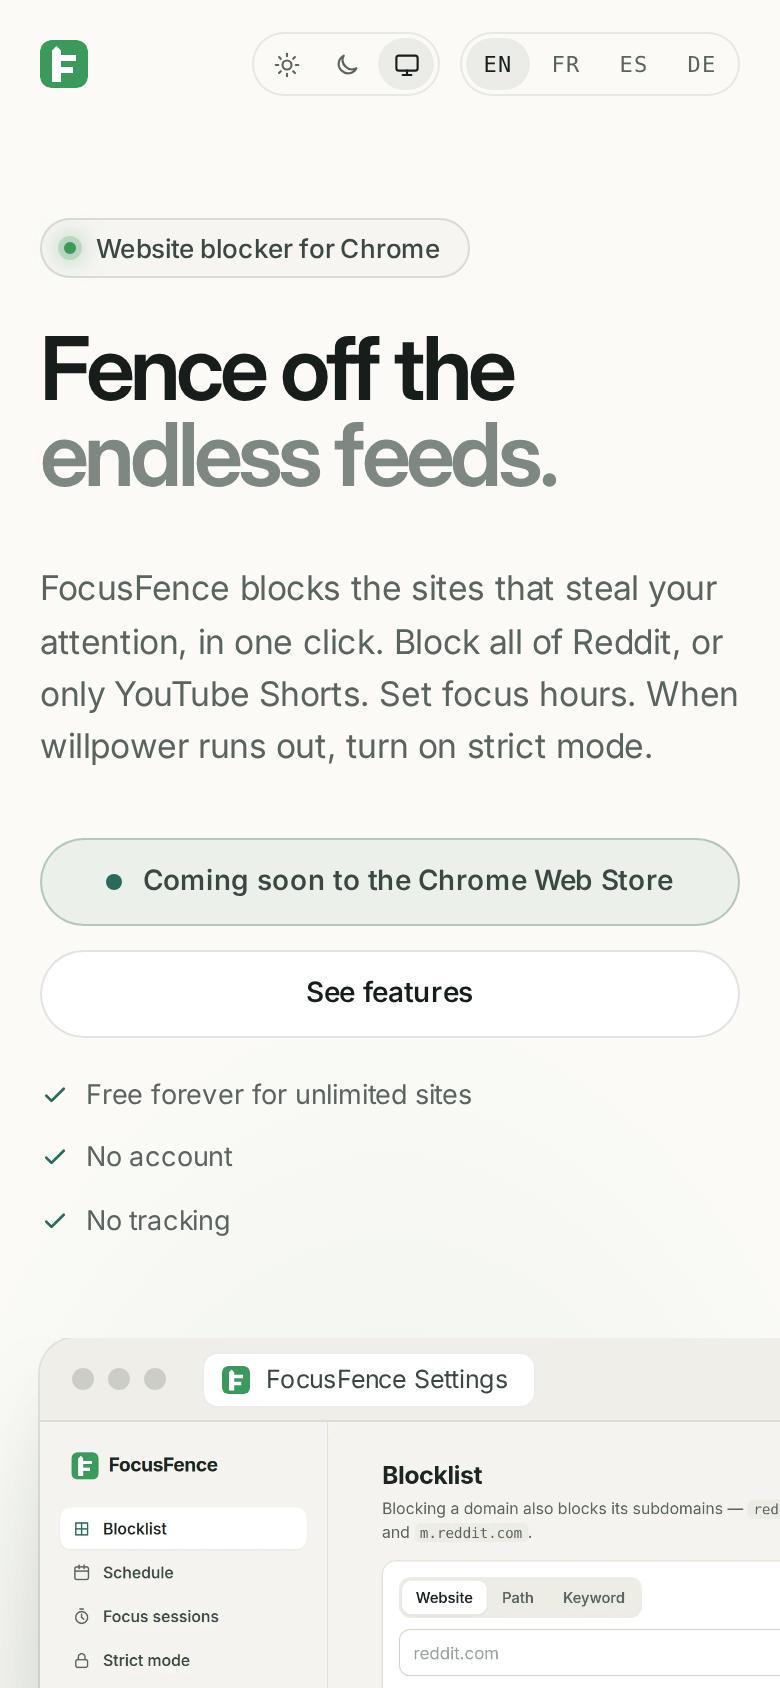
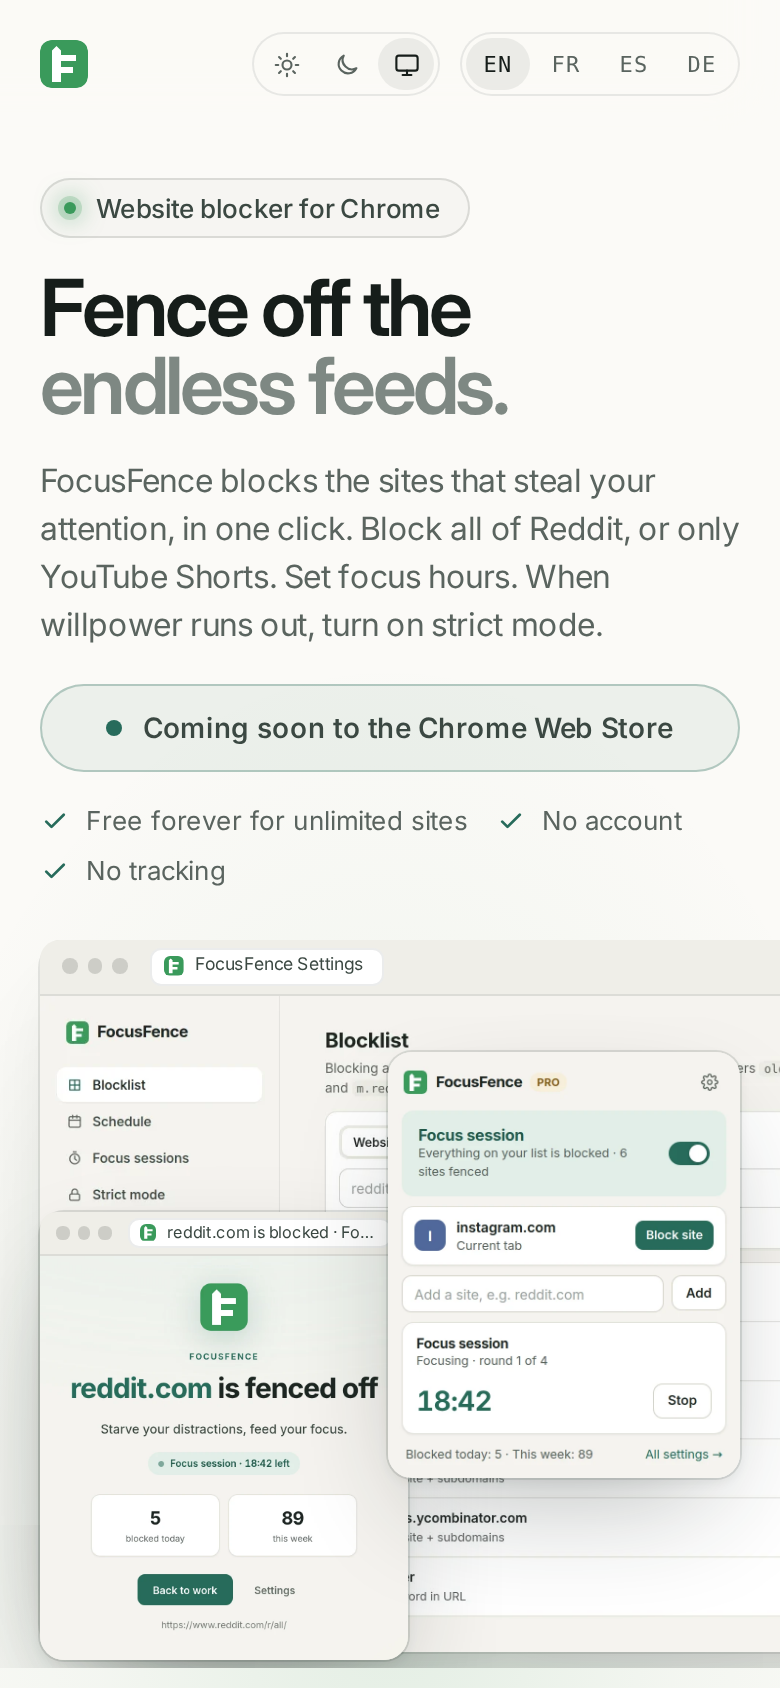
docs(design): round 3 brief, critique log and screenshots
- BRIEF.md: type scale, layout and page plan for the new hero; phone
  captures; the "One year of Pro" comparison; critique passes 10-12;
  Lighthouse re-measured, with an A/B against the round 2 build.
- Screenshots re-shot from the final build: full pages at 1440 and
  390px for every language in both themes, and the English first
  screens at 2x.
- README: phones get captures made for them through <picture>.

Changed region(s): [[0.0308, 0.0924, 1.0, 1.0], [0.8, 0.6161, 0.9846, 0.7701], [0.9231, 0.8318, 0.9538, 0.8626]]

diff --git a/design/landing-v2/BRIEF.md b/design/landing-v2/BRIEF.md
@@ -70,12 +70,12 @@ Inter (opsz 14–32, wght 100–900), `font-optical-sizing: auto`, features `cv1
 
 | Role | Size (360 → 1440 px) | Weight | Tracking | Line height |
 |---|---|---|---|---|
-| Display (h1) | 44 → 80 px | 620 | −0.045em | 0.98 |
+| Display (h1) | 40 → 64 px | 620 | −0.045em | 0.98 |
 | Closing line | 38 → 72 px | 620 | −0.045em | 1.0 |
 | Section (h2) | 32 → 48 px | 600 | −0.038em | 1.04 |
 | Statement | 26 → 40 px | 560 | −0.03em | 1.16 |
 | Card title (h3) | 17 px | 590 | −0.014em | 1.35 |
-| Lead | 17 → 19 px | 400 | −0.012em | 1.55 |
+| Lead | 16 → 18 px | 400 | −0.012em | 1.55 |
 | Body | 15–16 px | 400 | −0.006em | 1.6 |
 | Nav, small | 13.5 px | 500 | 0 | |
 | Mono kicker | 12 px, uppercase | 500 | +0.1em | 1 |
@@ -86,25 +86,26 @@ Inter (opsz 14–32, wght 100–900), `font-optical-sizing: auto`, features `cv1
 
 - Content 1200 px; product windows up to 1280 px; prose 700 px. Gutters `clamp(20px, 4vw, 40px)`.
 - Radii 8 (controls), 14 (tables), 18 (windows, cards). Pills for buttons and badges.
-- Breakpoints: 1024 (two-column heads and grids stack, bento cards go full width), 860 (steps and plans stack), 720 (section links move to the footer; product windows keep a legible scale and are cropped instead of shrunk), 480 (full-width buttons, stacked ticks, smaller fence), 400 (tighter buttons). Checked at 360, 390, 768, 1024, 1280 and 1440 px: no horizontal scroll.
+- Breakpoints: 1024 (two-column heads and grids stack, bento cards go full width), 860 (steps and plans stack), 720 (section links move to the footer; the hero cluster is recomposed for phones; phones get captures made for them, and every product image is shown whole), 480 (full-width buttons, smaller fence), 400 (tighter buttons). Checked at 360, 390, 768, 1024, 1280 and 1440 px: no horizontal scroll.
+- The hero cluster is sized in em, so it scales as one picture: 1em is 16 px when the cluster is 1280 px wide (or 350 px on phones). On desktop it also shrinks on short screens, so all three surfaces stay in the first screen on laptops (for example 1280×800, 1366×768 and 1536×864).
 
 ## 6. Page plan (as built)
 
 1. **Header:** logo and wordmark; Features, Pricing, Blog, Privacy; mono EN/FR/ES/DE switcher; "Add to Chrome" pill once `STORE_URL` is set. Translucent, blurred, hairline after scrolling.
-2. **Hero:** kicker pill, two-tone H1 on one line (two in Spanish), then a split row with the lead on the left and the actions plus three ticks on the right. Until the store link exists, the primary action is an honest status ("Coming soon to the Chrome Web Store", a dot that pings three times), not a dead button.
+2. **Hero:** kicker pill, two-tone H1 on one line in every language at 1440 px, then a split row with the lead on the left and the actions plus three ticks on the right. Until the store link exists, the primary action is an honest status ("Coming soon to the Chrome Web Store", a dot that pings three times), not a dead button.
 
-   Below it, the product in one look. Each window's tab title comes from the extension's own strings.
-   - **What you control:** the real Settings window, with every section in the sidebar and a blocklist of websites, a path and a keyword.
-   - **One click and a timer:** the real popup hangs from the toolbar icon at the same scale.
-   - **What you get instead:** a block-page window ("reddit.com is fenced off", with today's counts) breaks out of the frame at the bottom right.
+   Below it, the product in one look, all inside the first screen at 1440×900 and 390×844 (a test checks it in every language). Each window's tab title comes from the extension's own strings.
+   - **What you control:** the real Settings window (1280×700), with every section in the sidebar and the whole blocklist of websites, a path and a keyword.
+   - **One click and a timer:** the real popup hangs from the toolbar icon, whole, down to its timer and its blocked counts.
+   - **What you get instead:** the block page's card ("reddit.com is fenced off", with today's counts) in its own window, to the right. It slips under the popup's edge by less than its own margin, so no content is covered.
 
-   On phones, the settings window keeps a legible scale and runs off the right edge, and the block-page card overlaps its lower half.
+   On phones, the settings window runs off the right edge behind the other two; the popup sits on the right and the block page's card on the left, side by side, both whole.
 3. **Statement + three steps** (from onboarding): pick up to three sites, allow the block page, get back to work.
-4. **Block** (`#features`): the full block page in a browser window (the hero's settings view moved up), then the two block features.
+4. **Block** (`#features`): the full block page in a browser window, then the two block features. On phones the window shows the block page's card instead, whole, so both counts stay readable.
 5. **Focus:** bento of three cards with real UI crops at 1:1: schedule ranges, the popup's focus timer and strict mode switched on.
-6. **Stats:** the real stats panel, large, then a hairline grid of six smaller real features (password lock, own block-page message, export/import, light and dark, four languages, incognito check).
+6. **Stats:** the real stats panel, large, then a hairline grid of six smaller real features (password lock, own block-page message, export/import, light and dark, four languages, incognito check). On phones, the panel is the extension's own narrow layout, where the two summary cards stack, shown whole.
 7. **Privacy:** two-tone statement, three points, and a mono card listing what FocusFence actually asks Chrome for, plus the single network exception (ExtensionPay, only after upgrading).
-8. **Pricing:** Free / Pro monthly / Pro yearly (lit card, "Save 44%"), localized prices, how to upgrade, payment note.
+8. **Pricing:** Free / Pro monthly / Pro yearly (lit card, "Save 44%"), localized prices, how to upgrade, payment note. The yearly card ends with "One year of Pro": two quiet bars, 12 × Pro monthly ($35.88) against Pro yearly ($19.99), computed from the prices and written like each language's own prices (a test checks the arithmetic).
 9. **FAQ:** heading and contact line left (sticky on desktop), accordion right.
 10. **Closing:** logo in its light, "Get your focus back.", the action, the picket fence against the green light.
 11. **Footer:** brand line, Product / Resources / Contact (contact@focusfence.dev), license and trademark notes.
@@ -113,9 +114,11 @@ Inter (opsz 14–32, wght 100–900), `font-optical-sizing: auto`, features `cv1
 
 `npm run screenshots:site` (new `--site` mode of the existing `scripts/screenshots.mjs`) drives the real extension with the same seeded data as the store shots and writes `screenshots/site/<lang>/`:
 
-- 2x captures in **both themes** (`name.webp` and `name-light.webp`), encoded to WebP by Chromium's own canvas encoder (no image tooling needed): settings/blocklist and block page (1x and 2x, `srcset`), block-page card, popup, focus timer, schedule, strict mode, stats. The 2560×1600 captures weigh 40–95 KB.
-- The block-page card is cropped from the very same frame as the full block page, so its countdown matches the popup's.
-- The feature crops come from a 900 px window, so the cards are compact and shown at 1:1.
+- 2x captures in **both themes** (`name.webp` and `name-light.webp`), encoded to WebP by Chromium's own canvas encoder (no image tooling needed): settings/blocklist (1280×700) and block page (1280×800), both 1x and 2x for `srcset`; block-page card, popup, focus timer, schedule, strict mode, stats, and the phone stats. The largest (the 2x settings windows) weigh 79–95 KB.
+- The block-page card is the block page's content (its logo, headline, quote, session, counts, buttons and address) with even margins, cropped from the very same frame as the full block page, so its countdown matches the popup's.
+- The phone stats (`stats-m`) come from the narrowest window the settings page fits without scrolling sideways (684 px in English, 760 px in the other languages). Below 860 px the extension stacks its two summary cards, so both stay whole and readable.
+- The feature crops come from a 900 px window, so the cards are compact and shown at 1:1 on desktop and whole on phones.
+- Phone-only captures are served by `<picture>` below 720 px, still one per theme and lazy.
 - Countdowns are captured at exactly 18:42 (the script waits for that tick), and the stats are captured after the block-page visit, so every number agrees across images.
 - `og.png` (1200×630) per language, composed from the same captures: logo, localized kicker and two-tone headline (auto-fitted), ticks, window and popup.
 
@@ -130,23 +133,23 @@ Subtle and optional; nothing is hidden without JavaScript, and `prefers-reduced-
 
 ## 9. Quality bar (measured)
 
-- **Lighthouse** (v12.6, local static server with gzip). The server is shared with other agents and was saturated during the final runs (6 cores, load average 4–6), so the figures are medians with the full range of repeated runs:
+- **Lighthouse** (v12.6, local static server with gzip). The server is shared with other agents and often saturated (6 cores, load average 3–6), so the figures are medians of three runs, with their range. These were re-measured for round 3, at a load average of 2.7–4.3:
 
   | Page | Perf, phone (median, range) | Perf, desktop | A11y | Best practices | SEO |
   |---|---|---|---|---|---|
-  | `/` dark | 98 (97–99) | 100 | 100 | 100 | 100 |
-  | `/` light | 97 (95–99) | 100 | 100 | 100 | 100 |
-  | `/fr/` `/es/` `/de/`, both themes | 98 (91–100) | 100 | 100 | 100 | 100 |
-  | `/privacy.html`, both themes | 97 (90–100) | 100 | 100 | 100 | 100 |
-  | `/blog/*` | 100 | 100 | 100 | 100 | 66: drafts carry `noindex` by design until published |
+  | `/` dark | 98 (98–99) | 100 | 100 | 100 | 100 |
+  | `/` light | 96 (95–98) | 100 | 100 | 100 | 100 |
+  | `/fr/` `/es/` `/de/`, both themes | 98–99 (92–99) | 100 (`/de/`) | 100 | 100 | 100 |
+  | `/privacy.html`, both themes | 100 (99–100) | 100 (round 2) | 100 | 100 | 100 |
+  | `/blog/*` (round 2) | 100 | 100 | 100 | 100 | 66: drafts carry `noindex` by design until published |
 
-  On phones, LCP is 1.4–2.1 s and CLS 0. A visitor downloads only their theme's images (checked in the network log). Round 1, measured on a quieter server, scored 96–100.
-- **Accessibility:** axe (WCAG 2 A/AA) passes on every page in **both themes** at 1280 px, with no horizontal scroll at 1280, 390 and 360 px (`tests/docs.spec.mjs`). Also covered:
+  On phones, LCP is 2.0–2.4 s on the landing pages (1.4 s on privacy) and CLS is 0. Only TBT moves with the server's load; runs at a load average of 6 dropped to 78–95. The A/B check in pass 12 shows this build costs the same as round 2. A visitor downloads only their theme's images.
+- **Accessibility:** axe (WCAG 2 A/AA) passes on every page in **both themes** at 1280 px, with no horizontal scroll at 1280, 390 and 360 px (`tests/docs.spec.mjs`). The pricing bars are decorative (`aria-hidden`); their figures are plain text. Also covered:
   - skip link, landmarks and labelled navs;
   - focus-visible rings, including on the theme toggle, which is a native radio group;
   - real `<details>` for the FAQ;
   - alt text on every product image (the hidden theme's image is `display: none`, so it is never announced twice).
-- **Weight:** about 250 KB on a first visit on a phone. That covers HTML with inline CSS (16 KB gzipped), the font (73 KB), the hero settings capture (39–41 KB at 1x), the block-page card (33–35 KB) and the next lazy screenshot. All of a language's product images come to 330 KB (dark) or 355 KB (light), and the other theme is never fetched.
+- **Weight:** about 190–210 KB before scrolling on a phone. That covers HTML with inline CSS (17 KB gzipped), the font (73 KB), and the three hero captures: settings 33–38 KB at 1x, popup 33–39 KB and block-page card 31–37 KB. On phones the Block section reuses that card. All of a language's product images in one theme come to 350–380 KB (dark) or 376–406 KB (light) on disk, desktop and phone variants included. A visitor fetches one theme, and one variant of each image.
 
 ## 10. Critique log
 
@@ -244,9 +247,57 @@ Fixes:
   - `en-*-first-screen@2x.png`
   - `og-en.png` and `og-all-languages.png`
 
+### Round 3: design review (first screen, phone crops, pricing)
+
+**Pass 10** (the review's findings, confirmed on the round 2 build):
+1. At 390 px, the Stats frame cut the right-hand metric ("89 this week" sliced at the edge), in every language and both themes.
+2. The same crop-and-fade pattern had two more victims on phones:
+   - the Block section's block page, cut in half, through its own "89 this week";
+   - the end of the strict-mode sentence and the schedule's buttons.
+3. The hero did not fit the first screen. At 1440×900 the popup was cut through its timer, and the block-page card was entirely below the fold. At 390×844 only a sliver of Settings showed.
+4. The yearly plan had two bullets and looked sparse next to Free and Monthly.
+
+Fixes:
+- **Phones get captures made for them**, served by `<picture>` below 720 px:
+  - the stats panel in the extension's own narrow layout (its summary cards stack);
+  - the block page's card.
+- **Every product image is shown whole on phones**; the crop-and-fade rules are gone.
+- **Hero:**
+  - the H1 is 64 px instead of 80, with tighter spacing;
+  - the cluster is sized in em, so it scales as one picture;
+  - Settings is a 1280×700 window (every section and the whole blocklist);
+  - the popup hangs whole from the toolbar icon;
+  - the block page's card stands on the right;
+  - on phones, the popup and the card sit side by side in front of the settings window.
+- **The block-page card is cropped to its content with even margins** (498 px wide in English instead of 768), so it reads at small sizes.
+- **Pricing:** the yearly card ends with "One year of Pro", two quiet bars: 12 × Pro monthly against Pro yearly, computed from the real prices.
+- **Three new tests:**
+  - all three hero surfaces in the first screen, at 1440×900 and 390×844, in every language;
+  - nothing clipped at 390 px, with the phone captures in use, in every language and both themes;
+  - the pricing arithmetic.
+  - The first two were checked against the old rules: both fail on them.
+
+**Pass 11** (all languages, both themes, more sizes):
+1. The card's headline touched the popup's edge. The card now slips under the popup by less than its own margin (13 px clear), and the cluster is centred.
+2. On phones the popup covered the "Blocklist" heading; it moved down one line.
+3. On phones the status pill had shrunk to its text once "See features" was hidden; it is full width again below 480 px.
+4. At 1024×768 the stacked copy pushed the card below the fold; the cluster's height budget now accounts for it (`--above`).
+5. The phone stats capture first came out cut on the right: the settings page needs 648 px, and a 640 px window scrolled sideways. The capture now picks the narrowest window with no sideways scroll (684 px in English, 760 px in the other languages).
+6. Checked sizes:
+   - The whole cluster fits the first screen at 721×900, 768×1024, 1024×768, 1280×800, 1366×768, 1536×864, 1920×1080 and 390×844 (all four languages at 390×844 and 1440×900).
+   - It does not fully fit on short phones (360×740), where the card's lower edge falls below the fold.
+
+**Pass 12** (final, all languages, both themes):
+- Full pages and 2x first screens were re-shot from the final build: `<lang>-desktop-<dark|light>.png`, `<lang>-mobile-<dark|light>.png` and `en-*-first-screen@2x.png` in `screenshots/`.
+- The full test suite passes (107 tests).
+- The two heaviest browser tests are marked slow: axe across 40 page loads took 58 s against the default 60 s on this busy server.
+- Lighthouse was re-measured (section 9). One run of the English page scored 92 on a phone, with 215–333 ms of TBT, while the server's load average was 6 on 6 cores. Two checks on the same server, interleaved with the round 2 build, showed no regression:
+  - Main-thread work without throttling: layout 31.5 vs 32.4 ms, style 10.6 vs 10.8 ms, script 7.5 vs 7.5 ms (medians of six).
+  - Lighthouse, phone, dark, four runs each: round 2 scored 97, 99, 99, 99; this build scored 99, 99, 99, 99, with lower TBT.
+
 ## 11. Open points for the owner
 
-- New French, Spanish and German strings in `focusfence/scripts/site-strings.mjs` deserve a native proofread, like the rest of the site. They cover the statement, steps, section heads, details, permissions card, pricing notes and the theme toggle labels.
+- New French, Spanish and German strings in `focusfence/scripts/site-strings.mjs` deserve a native proofread, like the rest of the site. They cover the statement, steps, section heads, details, permissions card, pricing notes, the theme toggle labels and the "One year of Pro" caption.
 - The German extension UI says "du" while the site says "Sie" (unchanged here; the screenshots show the product as it is).
 - When the store listing is live, set `STORE_URL` in `focusfence/scripts/docs.mjs` and run `npm run docs`: the header pill and the green buttons appear automatically.
 - If the extension's UI is redesigned (another branch is working on it), run `npm run screenshots:site` and `npm run docs`: every website image, in both themes and all four languages, is re-captured from the real UI.

diff --git a/focusfence/README.md b/focusfence/README.md
@@ -127,7 +127,7 @@ The UI, manifest name/description and store listings are available in **English 
 - **Languages:** English at the root (also `x-default`), French, Spanish and German under `docs/fr/`, `docs/es/`, `docs/de/`: landing page plus `privacy.html` each.
   - Landing text: `scripts/site-strings.mjs`.
   - Privacy: `store/privacy-policy.md` plus `privacy-policy.<lang>.md`. The translations use `{{CONTACT}}`, filled from the English Contact line, so the address is entered once.
-  - Product images and the Open Graph image come from `screenshots/site/<lang>/` (`npm run screenshots:site`): real captures of the extension in its dark and light themes (`name.webp` / `name-light.webp`) at 2x, encoded to WebP in Chromium, plus a 1200×630 `og.png` per language.
+  - Product images and the Open Graph image come from `screenshots/site/<lang>/` (`npm run screenshots:site`): real captures of the extension in its dark and light themes (`name.webp` / `name-light.webp`) at 2x, encoded to WebP in Chromium, plus a 1200×630 `og.png` per language. Below 720 px, `<picture>` serves captures made for phones: the extension's narrow stats layout (`stats-m`) and the block page's card. Every product image is shown whole on phones.
   - Every page has a language switcher, `hreflang`/canonical tags, localized `og:*` tags and the localized Open Graph image. The sitemap lists every language with alternates.
 - **Design:** Linear-inspired, dark and light (notes, palettes, type scale and critique log in `../design/landing-v2/BRIEF.md`). Styles live in `scripts/site.css` and are inlined into every page; `scripts/site.js` (deferred, ~2 KB) remembers the language choice, wires the theme toggle and adds subtle scroll motion, skipped under `prefers-reduced-motion`. One self-hosted font (Inter with the optical-size axis, from `@fontsource-variable/inter`), no framework, no CDN, no tracker.
 - **Themes:** the site follows the system (`prefers-color-scheme`) until the visitor picks Light, Dark or System in the header toggle. The choice is stored in `localStorage` (`ff-theme`) and applied by an inline script in `<head>`, before the styles, so there is no flash. Each product image exists in both themes; CSS shows the matching one and lazy loading never downloads the other.
